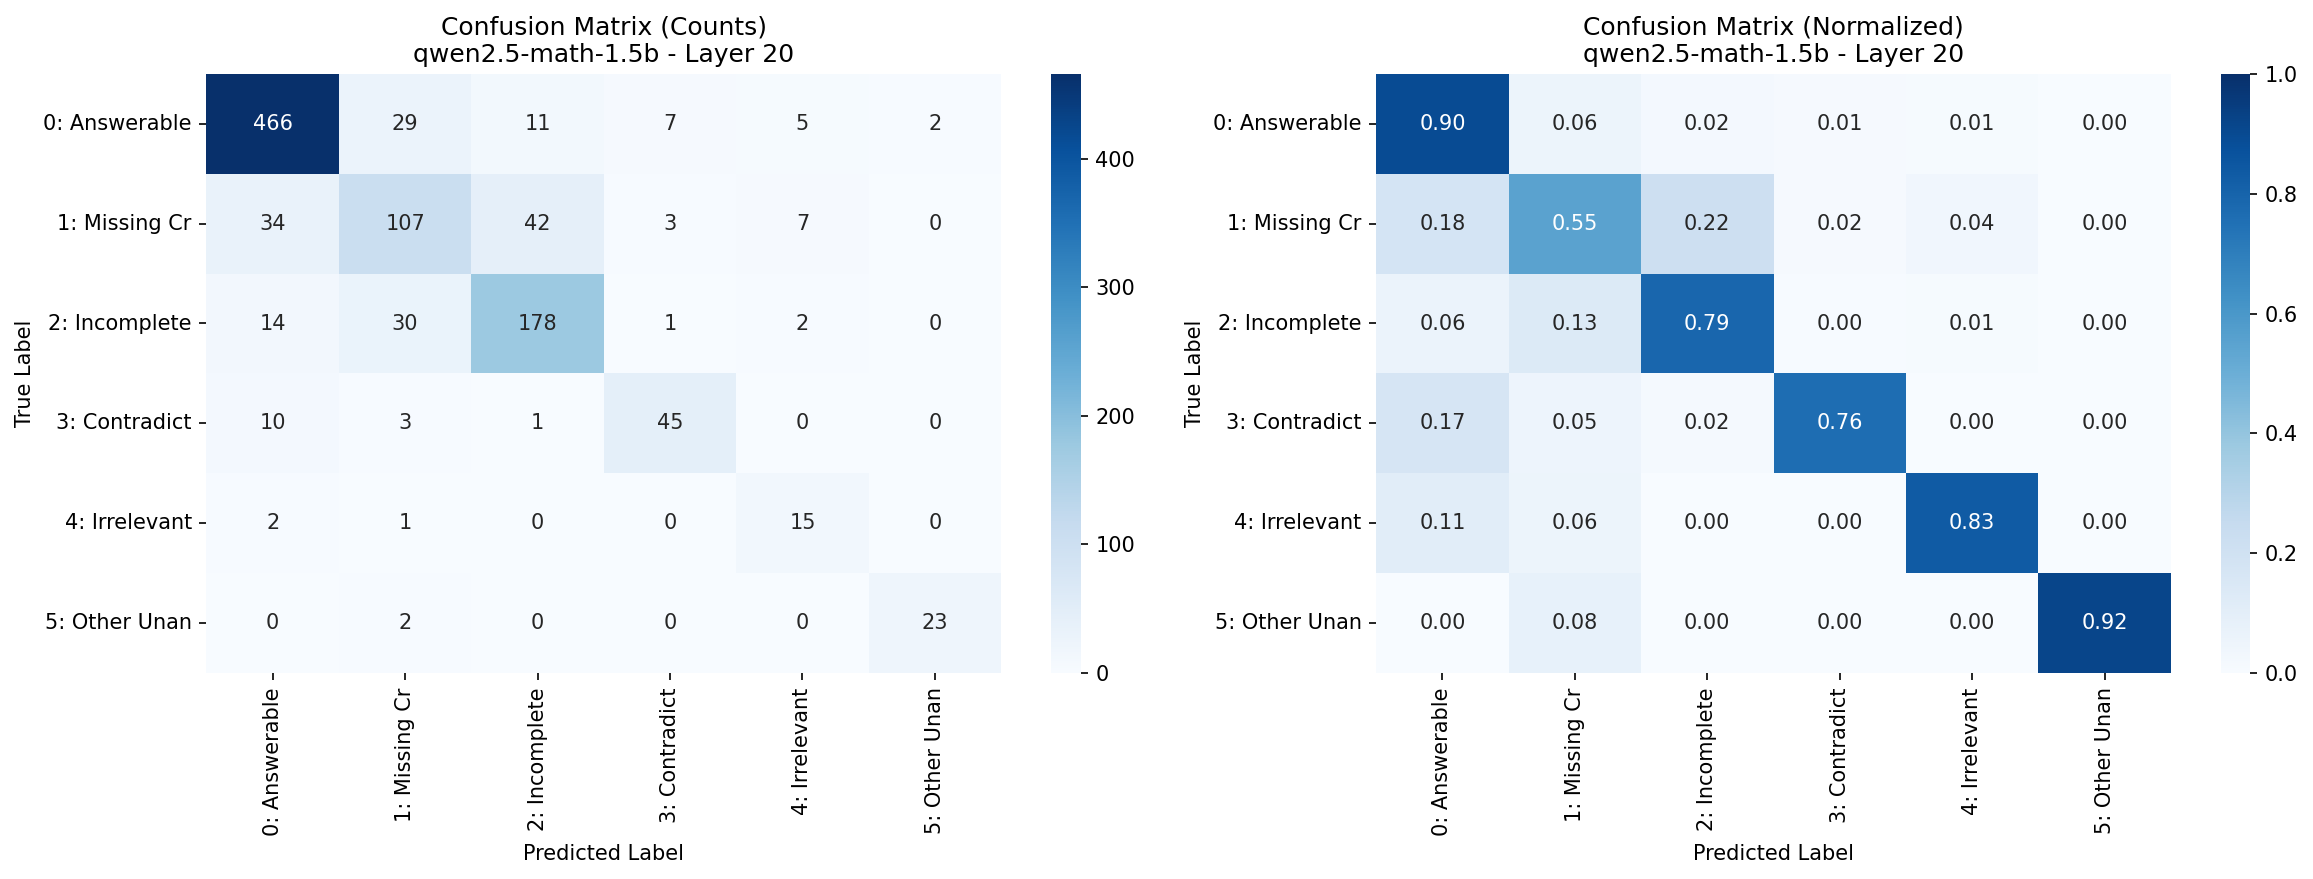
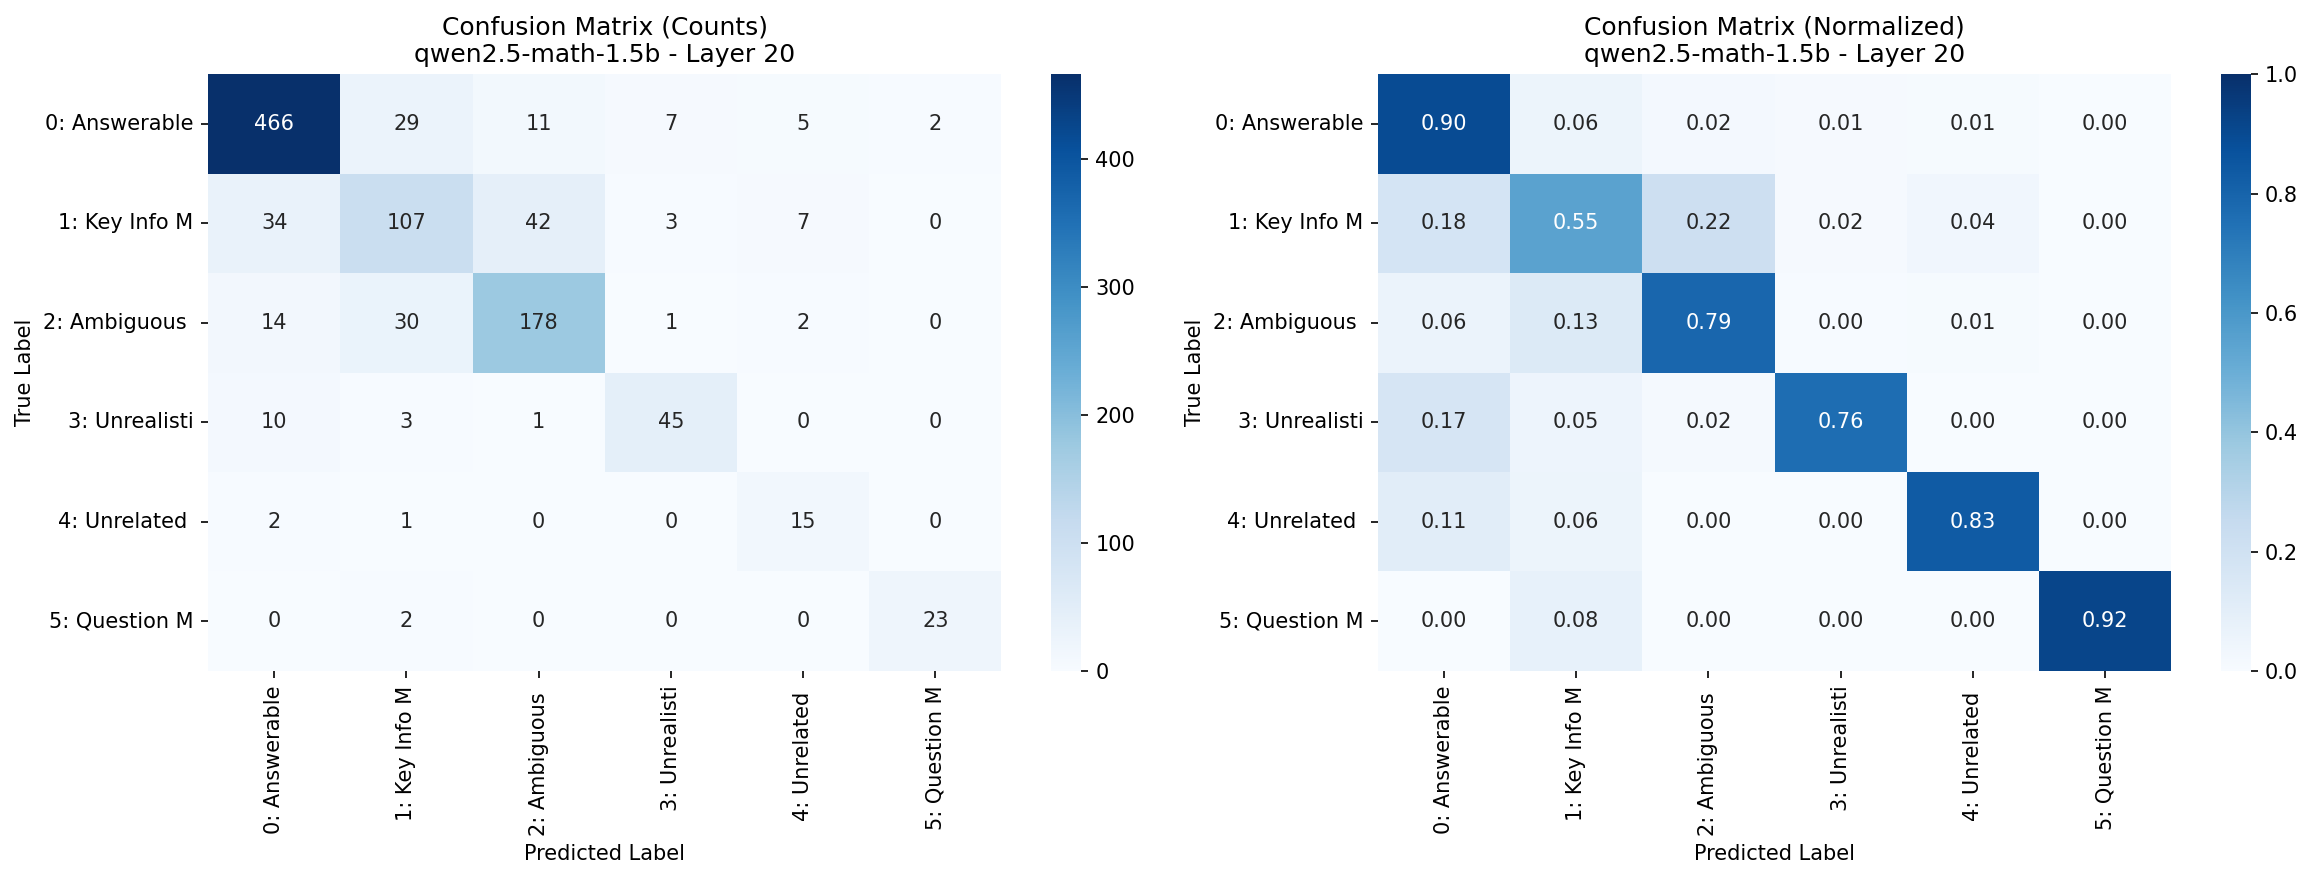
structure and plots

diff --git a/old_files_mech_interp/viz/plot_multiclass_results.py b/old_files_mech_interp/viz/plot_multiclass_results.py
@@ -10,15 +10,135 @@ from pathlib import Path
 # Class names for interpretability
 CLASS_NAMES = {
     0: "Answerable",
-    1: "Missing Critical Info", 
-    2: "Incomplete Constraint",
-    3: "Contradictory Info",
-    4: "Irrelevant Question",
-    5: "Other Unanswerability"
+    1: "Key Info Missing",       # (i)
+    2: "Ambiguous Info",         # (ii)
+    3: "Unrealistic Cond.",      # (iii)
+    4: "Unrelated Object",       # (iv)
+    5: "Question Missing"        # (v)
 }
 
 # Colors for each class (consistent across plots)
 CLASS_COLORS = ['#2E86AB', '#A23B72', '#F18F01', '#C73E1D', '#8E44AD', '#27AE60']
+
+
+def find_best_layers(results):
+    """
+    Find the best performing layer for each model based on macro F1
+    
+    Returns:
+        Dict mapping model_name -> (best_layer_idx, best_f1_score, best_metrics)
+    """
+    best_layers = {}
+    
+    for model_name, model_results in results.items():
+        best_layer_key = max(model_results.keys(), 
+                           key=lambda k: model_results[k]['f1_macro'])
+        best_metrics = model_results[best_layer_key]
+        best_layer_idx = int(best_layer_key.split('_')[1])
+        best_f1 = best_metrics['f1_macro']
+        
+        best_layers[model_name] = (best_layer_idx, best_f1, best_metrics)
+    
+    return best_layers
+
+
+def plot_paper_confusion_matrices(results, output_path):
+    """
+    Create horizontal confusion matrices for top 3 models using the same style as individual matrices
+    
+    Args:
+        results: Dict from multiclass experiment
+        output_path: Where to save the plot
+    """
+    best_layers = find_best_layers(results)
+    
+    # Get top 3 models by F1 score
+    top_models = sorted(best_layers.items(), key=lambda x: x[1][1], reverse=True)[:3]
+    
+    # Paper-friendly figure size
+    fig, axes = plt.subplots(1, 3, figsize=(18, 6))
+    
+    for idx, (model_name, (best_layer_idx, best_f1, best_metrics)) in enumerate(top_models):
+        # Get confusion matrix
+        cm = np.array(best_metrics['confusion_matrix'])
+        
+        # Normalize confusion matrix (same as individual matrices)
+        cm_norm = cm.astype('float') / cm.sum(axis=1)[:, np.newaxis]
+        
+        # Use same style as plot_confusion_matrix function
+        sns.heatmap(cm_norm, annot=True, fmt='.2f', cmap='Blues',
+                   xticklabels=[f"{i}: {CLASS_NAMES[i][:10]}" for i in range(6)],
+                   yticklabels=[f"{i}: {CLASS_NAMES[i][:10]}" for i in range(6)],
+                   ax=axes[idx], cbar=True, vmin=0, vmax=1)
+        
+        axes[idx].set_ylabel('True Label')
+        axes[idx].set_xlabel('Predicted Label')
+        axes[idx].set_title(f'Confusion Matrix (Normalized)\n{model_name} - Layer {best_layer_idx}')
+    
+    plt.tight_layout()
+    plt.savefig(output_path, dpi=150, bbox_inches='tight')
+    plt.close()
+    
+    print(f"Paper confusion matrices saved to: {output_path}")
+
+
+def plot_paper_layer_performance(results, output_path):
+    """
+    Create layer performance plot optimized for paper inclusion (without weighted F1)
+    
+    Args:
+        results: Dict from multiclass experiment
+        output_path: Where to save the plot
+    """
+    best_layers = find_best_layers(results)
+    
+    # Paper-friendly figure size
+    fig, axes = plt.subplots(1, 2, figsize=(16, 6))
+    
+    for model_name, model_results in results.items():
+        layers = [int(k.split('_')[1]) for k in model_results.keys()]
+        layers.sort()
+        
+        # Extract metrics
+        macro_f1 = [model_results[f'layer_{l}']['f1_macro'] for l in layers]
+        accuracy = [model_results[f'layer_{l}']['accuracy'] for l in layers]
+        
+        best_layer_idx, best_f1, _ = best_layers[model_name]
+        
+        # Plot macro F1 (same style as original)
+        axes[0].plot(layers, macro_f1, 'o-', label=model_name, linewidth=2, markersize=4)
+        
+        # Plot accuracy (same style as original)
+        axes[1].plot(layers, accuracy, '^-', label=model_name, linewidth=2, markersize=4)
+    
+    # Configure macro F1 plot (same style as original)
+    axes[0].axhline(y=1/6, color='gray', linestyle='--', label='Random (6-class)', alpha=0.5)
+    axes[0].set_xlabel('Layer Index')
+    axes[0].set_ylabel('Macro F1 Score')
+    axes[0].set_title('Macro F1 vs Layer (Most Important)')
+    axes[0].legend()
+    axes[0].grid(True, alpha=0.3)
+    axes[0].set_ylim([0, 1])
+    
+    # Configure accuracy plot (same style as original)
+    axes[1].axhline(y=1/6, color='gray', linestyle='--', label='Random (6-class)', alpha=0.5)
+    axes[1].set_xlabel('Layer Index')
+    axes[1].set_ylabel('Accuracy')
+    axes[1].set_title('Accuracy vs Layer')
+    axes[1].legend()
+    axes[1].grid(True, alpha=0.3)
+    axes[1].set_ylim([0, 1])
+    
+    # Add best layer information
+    best_layers_text = "Best Layers: " + ", ".join([f"{name}: {layer}" 
+                                                    for name, (layer, f1, _) in best_layers.items()])
+    fig.text(0.5, 0.02, best_layers_text, ha='center', fontsize=9)
+    
+    plt.tight_layout()
+    plt.savefig(output_path, dpi=150, bbox_inches='tight')
+    plt.close()
+    
+    print(f"Paper layer performance plot saved to: {output_path}")
 
 
 def plot_multiclass_layer_performance(results, output_path):
@@ -284,12 +404,12 @@ def analyze_multiclass_results(results):
                 good_classes.append((i, CLASS_NAMES[i], f1))
         
         if problematic_classes:
-            print(f"  ⚠  Problematic classes (F1 < 0.3):")
+            print(f"  Problematic classes (F1 < 0.3):")
             for i, name, f1 in problematic_classes:
                 print(f"    {i} ({name}): {f1:.3f}")
         
         if good_classes:
-            print(f"  ✅ Well-learned classes (F1 > 0.6):")
+            print(f"  Well-learned classes (F1 > 0.6):")
             for i, name, f1 in good_classes:
                 print(f"    {i} ({name}): {f1:.3f}")
     
@@ -327,7 +447,18 @@ def create_multiclass_plots(results_path, output_dir):
         f"{output_dir}/multiclass_model_comparison.png"
     )
     
-    # 3. Confusion matrices for each model
+    # 3. Paper-optimized plots
+    plot_paper_layer_performance(
+        results,
+        f"{output_dir}/paper_layer_performance.png"
+    )
+    
+    plot_paper_confusion_matrices(
+        results,
+        f"{output_dir}/paper_confusion_matrices.png"
+    )
+    
+    # 4. Confusion matrices for each model
     for model_name in results.keys():
         safe_model_name = model_name.replace('/', '_').replace('.', '_')
         plot_confusion_matrix(
@@ -336,7 +467,7 @@ def create_multiclass_plots(results_path, output_dir):
             f"{output_dir}/confusion_matrix_{safe_model_name}.png"
         )
     
-    # 4. Print analysis
+    # 5. Print analysis
     analyze_multiclass_results(results)
     
     print(f"\nAll plots saved to: {output_dir}")
